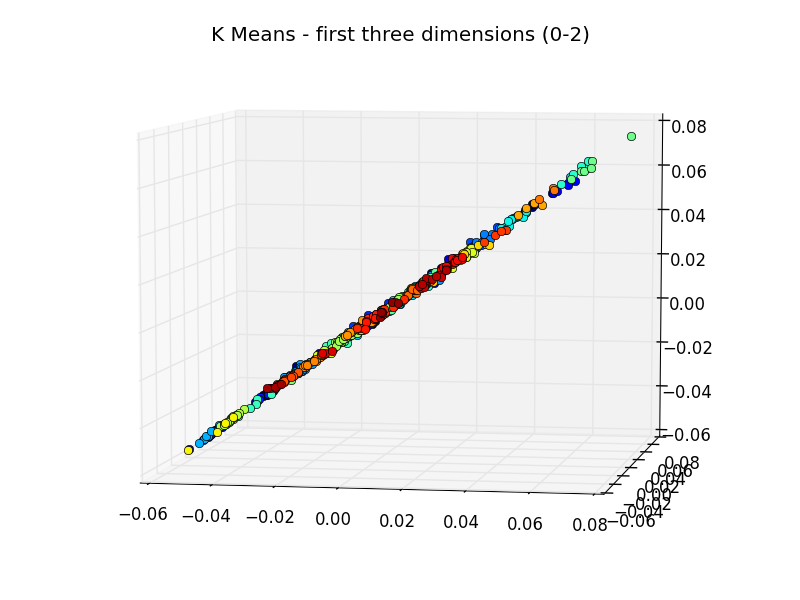
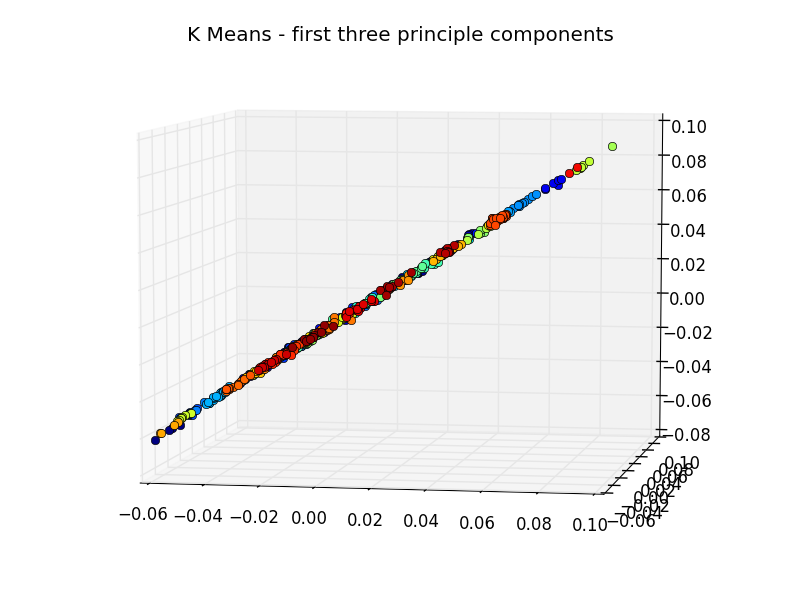
Updates to example one.

diff --git a/examples/example_one_clustering/action_clustering.py b/examples/example_one_clustering/action_clustering.py
@@ -6,7 +6,8 @@
 from action.suite import *
 import numpy as np
 
-ACTION_DIR = '/Users/ME/Movies/action'
+#Change this as appropriate
+ACTION_DIR = '/Users/kfl/Movies/action'
 
 # 1A: K-means Clustering of first 2400 frames (10 minutes)
 def ex_1A(title):
@@ -19,11 +20,15 @@ def ex_1A(title):
 	decomposed = ad.calculate_pca_and_fit(cf_ten_minute_segment, locut=0.0001)
 	sliding_averaged = ad.average_over_sliding_window(decomposed, 8, 4)
 
-	nc = 60 # sample 300 frames from total pool of 600 or 10%.
+	nc = 60 # 60 clusters from total pool of 600 (non-contiguous)
 	km_assigns, km_max_assign = ad.cluster_k_means(sliding_averaged, nc)
 
-	av.plot_clusters(sliding_averaged, km_assigns, 'K Means - first three dimensions (0-2)')
-	av.plot_hcluster_segments(km_assigns, km_max_assign) #, 'K Means - segmentation view')
+	av.plot_clusters(sliding_averaged, km_assigns, 'K Means - first three principle components')
+	
+	av.plot_hcluster_segments(km_assigns, km_max_assign, 'K Means - segmentation view', x_lbl='Time (seconds)', y_lbl='Labeling')
+	
+	segs = ad.convert_clustered_frames_to_segs(km_assigns, nc)
+	av.plot_segment_length_distribution(segs, ttl='K Means - distribution of segment lengths', x_lbl='Segment length (1/4 seconds)', y_lbl='Frequency')
 
 
 # 1B: Hierarchical Clustering of full movie
@@ -31,59 +36,57 @@ def ex_1B(title):
 	cfl = ColorFeaturesLAB(title, action_dir=ACTION_DIR)
 	length = cfl.determine_movie_length() # in seconds
 	full_segment = Segment(0, duration=length)
-	#cf_full_film = cfl.center_quad_color_features_for_segment(full_segment)
 	cf_full_film = cfl.middle_band_color_features_for_segment(full_segment)
 
 	decomposed = ad.calculate_pca_and_fit(cf_full_film, locut=0.0001)
 
-	nc = 1000 # Rouchly 5/minute for a feature-length film.
+	nc = 500 # Roughly 5 per minute for a feature-length film.
 	hc_assigns = ad.cluster_hierarchically(decomposed, nc, None)
 
-	av.plot_clusters(decomposed, hc_assigns, 'Hierarchical - first three dimensions (0-2)')
-	av.plot_hcluster_segments(hc_assigns, nc) #, 'Hierarchical - segmentation view')
-
-	av.plot_clusters(decomposed[:,1:], hc_assigns, 'Hierarchical - dimensions 1-3')
-
-
-
-def ex_1C(title):
-	cfl = ColorFeaturesLAB(title, action_dir=ACTION_DIR)
-	length = cfl.determine_movie_length() # in seconds
-	full_segment = Segment(0, duration=length)
-	#cf_full_film = cfl.center_quad_color_features_for_segment(full_segment)
-	cf_full_film = cfl.middle_band_color_features_for_segment(full_segment)
-
-	decomposed = ad.calculate_pca_and_fit(cf_full_film, locut=0.0001)
-
-	nc = int(length * 0.2) # Setting the density of clusters with a ratio. - don't forget the int cast!
-	hc_assigns = ad.cluster_hierarchically(decomposed, nc, None)
-
-	com = np.array([],dtype='float32')
-	comd = np.array([],dtype='float32')
-	for hci in range(hc_assigns.max()+1):
-		seg = cf_full_film[np.argwhere(hc_assigns==hci)]
-		seg = np.reshape(seg, (-1, cf_full_film.shape[1]))
-		com = np.append(np.atleast_2d(com), np.mean(seg, axis=0))
-		com = np.reshape(com, (-1, cf_full_film.shape[1]))
-		segd = decomposed[np.argwhere(hc_assigns==hci)]
-		segd = np.reshape(segd, (-1, decomposed.shape[1]))
-		comd = np.append(np.atleast_2d(comd), np.mean(segd, axis=0))
-		comd = np.reshape(comd, (-1, decomposed.shape[1]))
+	av.plot_clusters(decomposed, hc_assigns, ttl='Hierarchical - first three principle components')
+	av.plot_hcluster_segments(hc_assigns, nc, ttl='Hierarchical - segmentation view (zoomed)', x_lbl='Time (1/4 seconds)', y_lbl='Labeling')
+	
+	segs = ad.convert_clustered_frames_to_segs(hc_assigns, nc)
+	av.plot_segment_length_distribution(segs, ttl='Hierarchical - distribution of segment lengths', x_lbl='Segment length (1/4 seconds)', y_lbl='Frequency')
 
 
-	av.plot_clusters(decomposed, hc_assigns, 'Hierarchical - first three dimensions (0-2)')
-	av.plot_hcluster_segments(hc_assigns, nc) #, 'Hierarchical - segmentation view')
-
-	labeling = np.array(range(nc))
-	av.plot_clusters(com, labeling, 'HC centers of mass - first three dimensions (0-2)')
-	av.plot_clusters(comd, labeling, 'HC centers of mass, decomposed - first three dimensions (0-2)')
+# def ex_1C(title):
+# 	cfl = ColorFeaturesLAB(title, action_dir=ACTION_DIR)
+# 	length = cfl.determine_movie_length() # in seconds
+# 	full_segment = Segment(0, duration=length)
+# 	cf_full_film = cfl.middle_band_color_features_for_segment(full_segment)
+# 
+# 	decomposed = ad.calculate_pca_and_fit(cf_full_film, locut=0.0001)
+# 
+# 	nc = int(length * 0.2) # Setting the density of clusters with a ratio.
+# 	hc_assigns = ad.cluster_hierarchically(decomposed, nc, None)
+# 
+# 	com = np.array([],dtype='float32')
+# 	comd = np.array([],dtype='float32')
+# 	for hci in range(hc_assigns.max()+1):
+# 		seg = cf_full_film[np.argwhere(hc_assigns==hci)]
+# 		seg = np.reshape(seg, (-1, cf_full_film.shape[1]))
+# 		com = np.append(np.atleast_2d(com), np.mean(seg, axis=0))
+# 		com = np.reshape(com, (-1, cf_full_film.shape[1]))
+# 		segd = decomposed[np.argwhere(hc_assigns==hci)]
+# 		segd = np.reshape(segd, (-1, decomposed.shape[1]))
+# 		comd = np.append(np.atleast_2d(comd), np.mean(segd, axis=0))
+# 		comd = np.reshape(comd, (-1, decomposed.shape[1]))
+# 
+# 
+# 	av.plot_clusters(decomposed, hc_assigns, 'Hierarchical - first three dimensions (0-2)')
+# 	av.plot_hcluster_segments(hc_assigns, nc) #, 'Hierarchical - segmentation view')
+# 
+# 	labeling = np.array(range(nc))
+# 	av.plot_clusters(com, labeling, 'HC centers of mass - first three dimensions (0-2)')
+# 	av.plot_clusters(comd, labeling, 'HC centers of mass, decomposed - first three dimensions (0-2)')
 
 if __name__ == "__main__":
 	title = 'Vertigo'
 	
 	F1A = ex_1A(title)
 	F1B = ex_1B(title)
-	F1C = ex_1C(title)
+# 	F1C = ex_1C(title)
 	
 	try:
 		choice = str(input('Press enter to exit visualization...'))

diff --git a/action/spdocs/example_one_clustering.rst b/action/spdocs/example_one_clustering.rst
@@ -10,7 +10,7 @@ This example will demonstrate simple workflows for clustering color feature hist
 Prerequisites
 =============
 
-* Data analyzed through ACTION, which can take several forms (see below).
+* Data analyzed through ACTION, which can take several forms (see below). For this example, we use Hitchcock's North by Northwest.
 * See previous tutorials for more information.
 
 Step-by-step Instructions
@@ -19,12 +19,14 @@ Step-by-step Instructions
 Get the data
 ------------
 
-Create a histogram object, instantiating it with the standardized title (no extension). You can find its length through the helpful ``determine_movie_length()`` function. Create a segment describing the time interval that you would like to retrieve. Finally, grab the data. Here we are demonstrating one of the 'spatial' access functions ``center_quad_histogram_for_segment`` that returns just the histogram data for the central gridded squares of the 4-by-4 grid.
+Create a color feature instance, instantiating it with the standardized title (no extension). You can find its length through the helpful ``determine_movie_length()`` function. Create a segment describing the time interval that you would like to retrieve. Finally, grab the data. Here we are demonstrating one of the 'spatial' access functions ``center_quad_histogram_for_segment`` that returns just the histogram data for the central gridded squares of the 4-by-4 grid.
 
 .. code-block:: python
 
 	from action.suite import *
-	cfl = ColorFeaturesLAB(TITLE, action_dir=ACTION_DIR)
+	title = 'North_by_Northwest'
+	ACTION_DIR = '/Users/me/Movies/action'
+	cfl = ColorFeaturesLAB(title, action_dir=ACTION_DIR)
 
 	length = 600 # 600 seconds = 10 minutes
 	length_in_frames = length * 4
@@ -68,11 +70,21 @@ Finally, we plot the clusters two ways. First as points in 3-dimensional space (
 .. code-block:: python
 
 	# av is an alias for ActionView()
-	av.plot_clusters(sliding_averaged, km_assigns)
-	av.plot_hcluster_segments(km_assigns, km_max_assign)
+	av.plot_clusters(sliding_averaged, km_assigns, 'K Means - first three principle components')
+	
+	av.plot_hcluster_segments(km_assigns, km_max_assign, 'K Means - segmentation view', x_lbl='Time (seconds)', y_lbl='Labeling')
+	
+We can view the distribution of segment lengths, although this is not that informative, since the segments are non-contiguous.
+
+.. code-block:: python
+
+	segs = ad.convert_clustered_frames_to_segs(km_assigns, nc)
+	av.plot_segment_length_distribution(segs, ttl='K Means - distribution of segment lengths', x_lbl='Segment length (1/4 seconds)', y_lbl='Frequency')
 
 .. image:: /images/action_ex1A_kmeans.png
 .. image:: /images/action_ex1A_kmeans_segments.png
+.. image:: /images/action_ex1A_kmeans_seg_distro.png
+
 
 Hierarchical Clustering
 -----------------------
@@ -81,7 +93,7 @@ Instead of k-means clustering, here is an example of hierarchical clustering of 
 
 .. code-block:: python
 
-	nc = 1000
+	nc = 500 # Roughly 5 per minute for a feature-length film.
 	hc_assigns = ad.cluster_hierarchically(decomposed, nc, None)
 
 	av.plot_clusters(decomposed, hc_assigns)
@@ -89,14 +101,7 @@ Instead of k-means clustering, here is an example of hierarchical clustering of 
 
 .. image:: /images/action_ex1B_dims_0_2.png
 .. image:: /images/action_ex1B_segs_zoomed.png
-
-Let's try looking at dimensions 1-3 of the decomposed result (leaving out the dimension with the most variance). Since we can only visualize up to three dimensions of data at one time, this will give us a new way of seeing how the points cluster (or fail to do so). The view is different, and it's been rotated to show an interesting view. Here's the code for this second view:
-
-.. code-block:: python
-
-	av.plot_clusters(decomposed[:,1:], hc_assigns)
-
-.. image:: /images/action_ex1B_dims_1_3.png
+.. image:: /images/action_ex1B_distro.png
 
 Kmeans is not deterministic; Hierarchical is
 --------------------------------------------
